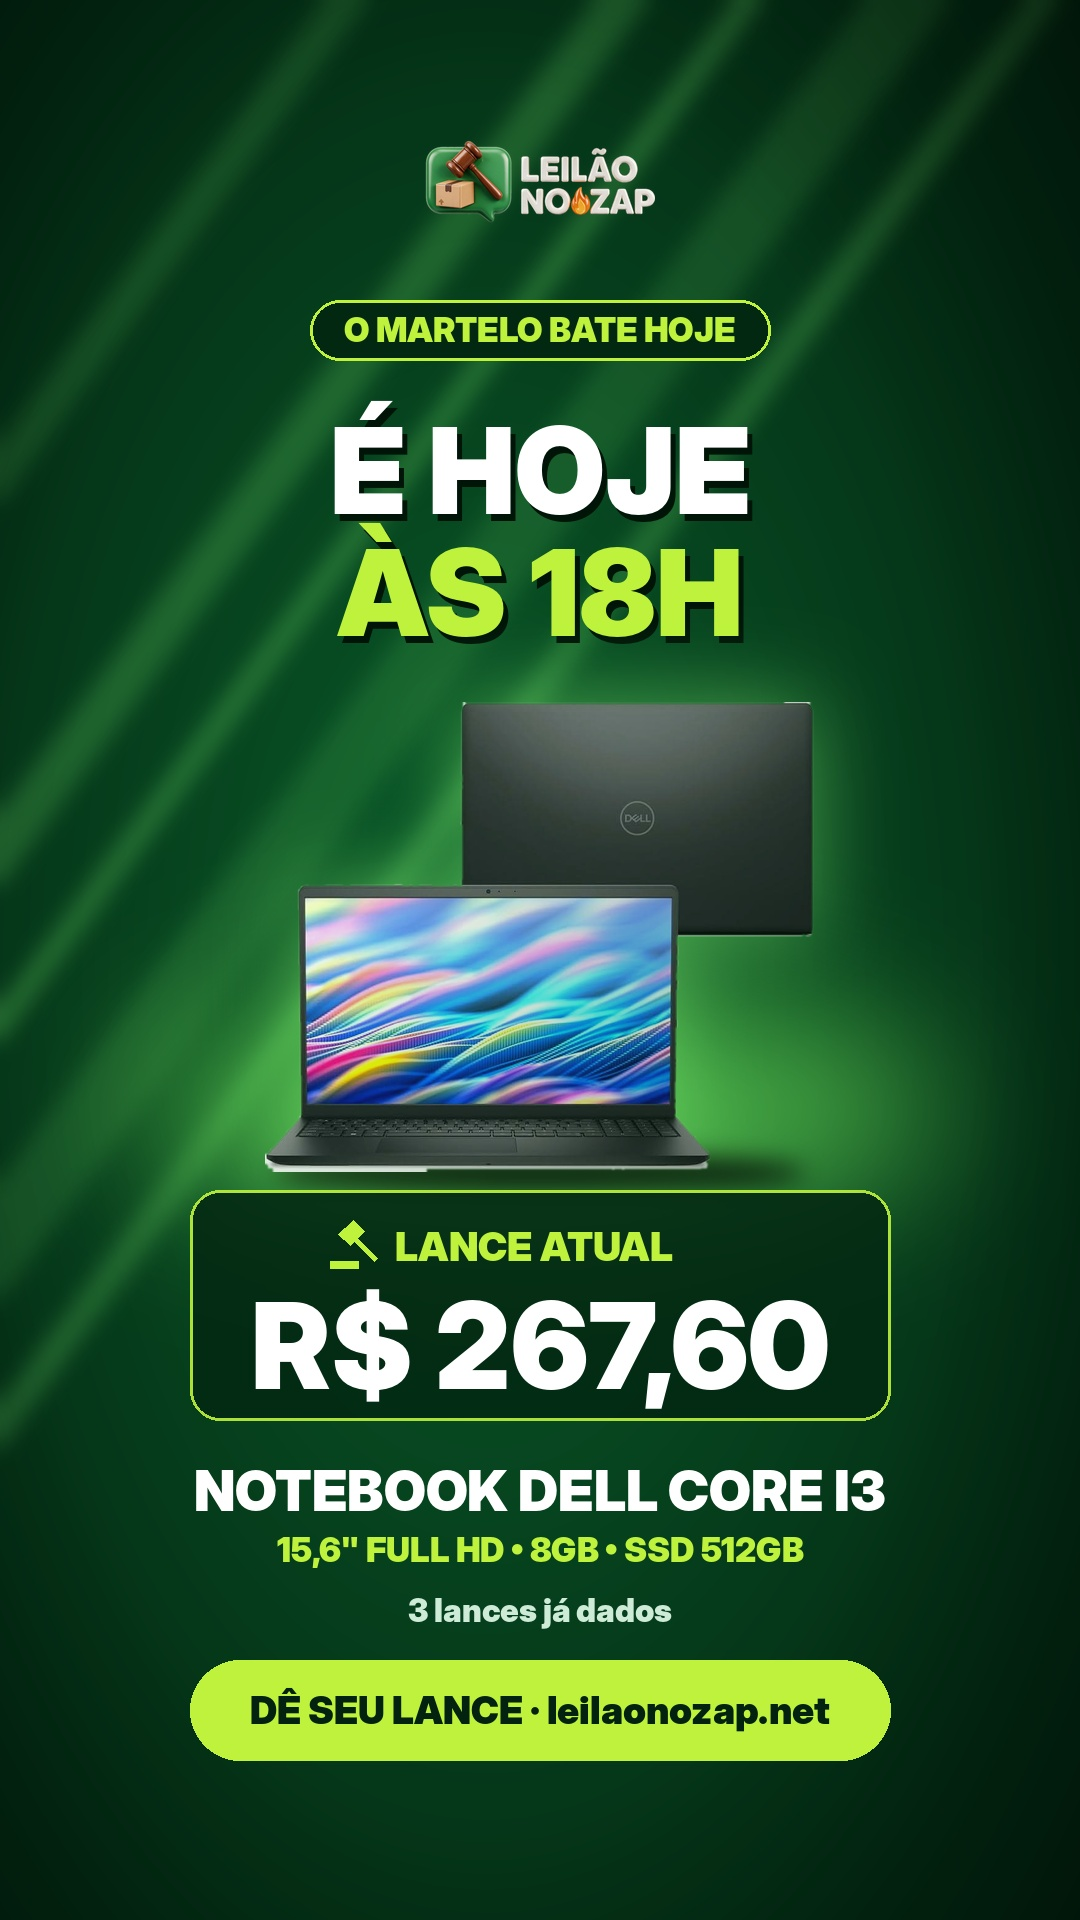
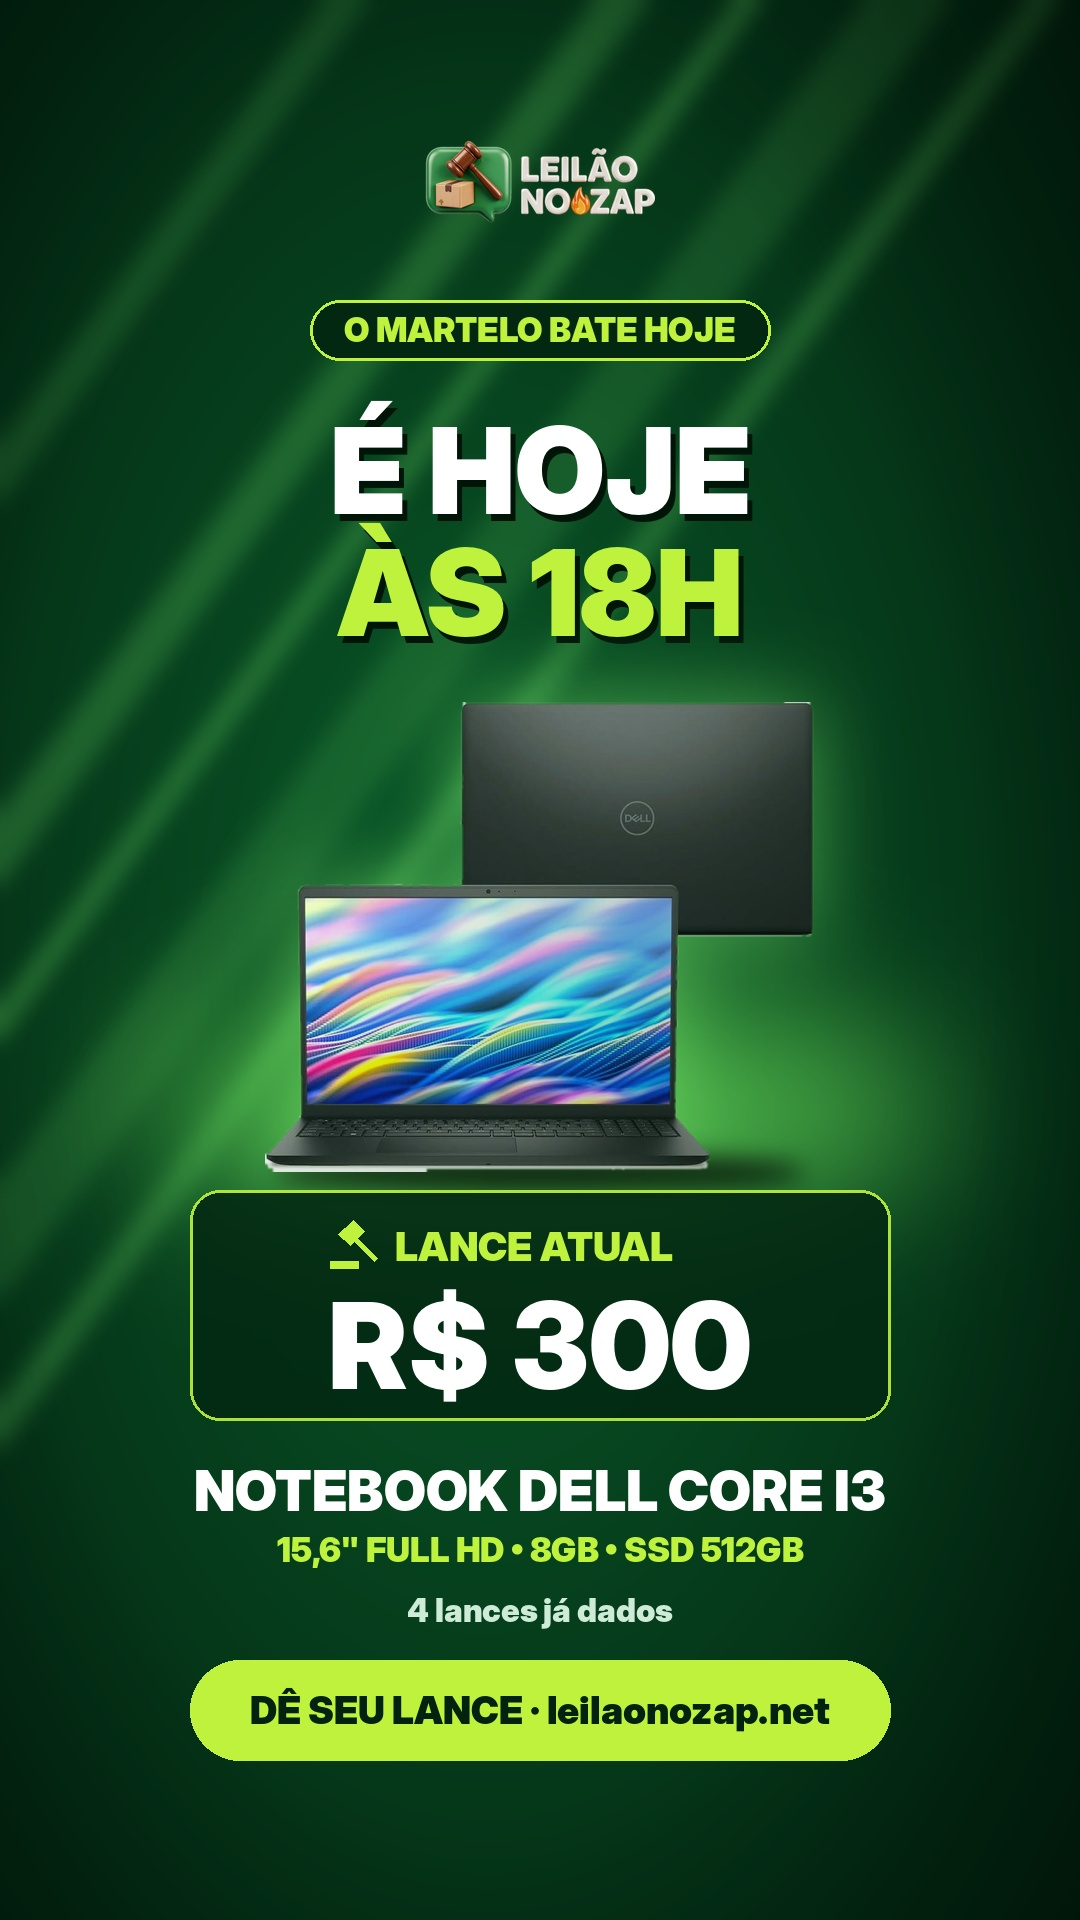
Vendedores sábado: artes e copies com o lance atual (R$ 300, 4 lances)
Claude-Session: https://claude.ai/code/session_01JihU9VfVTYTrMqQpApFEjH

Changed region(s): [[0.2139, 0.6562, 0.7639, 0.75], [0.3667, 0.8125, 0.3972, 0.8438]]

diff --git a/marketing/semana-2026-10-28/notebook/sabado-31-10/vendedores/COPIES-vendedores-sabado.md b/marketing/semana-2026-10-28/notebook/sabado-31-10/vendedores/COPIES-vendedores-sabado.md
@@ -11,7 +11,7 @@ Antes de postar: conferir o lance no link (a arte é atualizada pela Duda antes 
 
 💻 **Notebook Dell Core i3 · 8GB · SSD 512GB · Tela Full HD**
 
-🔥 Lance atual: **R$ 267,60**
+🔥 Lance atual: **R$ 300,00**
 
 👉 Dá seu lance aqui: https://leilaonozap.net/l/ea97c6608ca690bf3d76dfb4
 
@@ -25,7 +25,7 @@ Antes de postar: conferir o lance no link (a arte é atualizada pela Duda antes 
 
 💻 Notebook Dell Core i3, 8GB, SSD 512GB, Windows 11
 
-🔥 Lance atual: **R$ 267,60** · ainda dá tempo!
+🔥 Lance atual: **R$ 300,00** · ainda dá tempo!
 
 👉 https://leilaonozap.net/l/ea97c6608ca690bf3d76dfb4
 
@@ -39,7 +39,7 @@ Antes de postar: conferir o lance no link (a arte é atualizada pela Duda antes 
 
 💻 Notebook Dell Core i3 · 8GB · SSD 512GB
 
-🔥 Lance atual: **R$ 267,60**
+🔥 Lance atual: **R$ 300,00**
 
 Quem der o maior lance até as 18h leva! 👇
 https://leilaonozap.net/l/ea97c6608ca690bf3d76dfb4
